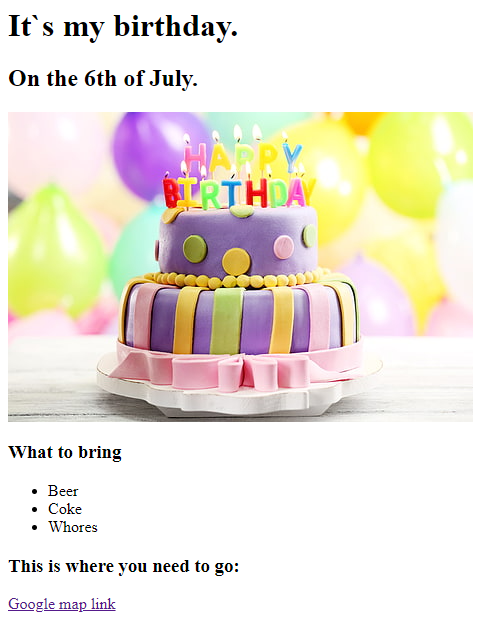
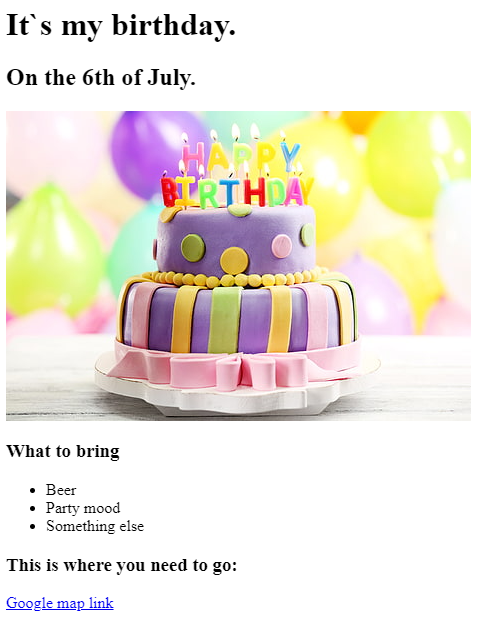
Add files via upload

diff --git a/public/birthday-invite.html b/public/birthday-invite.html
@@ -7,8 +7,8 @@
     <h3>What to bring</h3>
         <ul>
             <li>Beer</li>
-            <li>Coke</li>
-            <li>Whores</li>
+            <li>Party mood</li>
+            <li>Something else</li>
         </ul>
 
     <h3>This is where you need to go:</h3>
